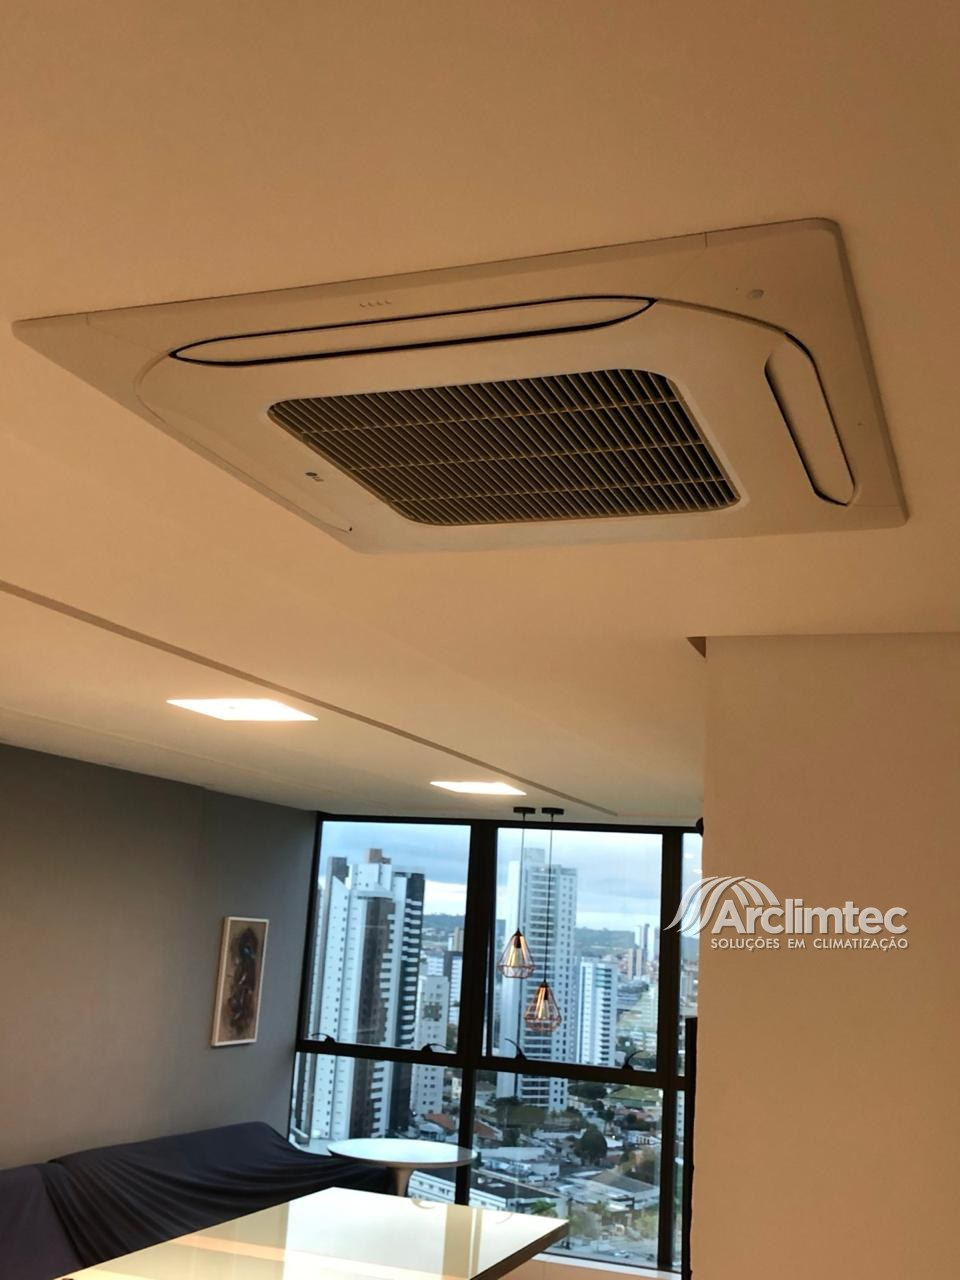
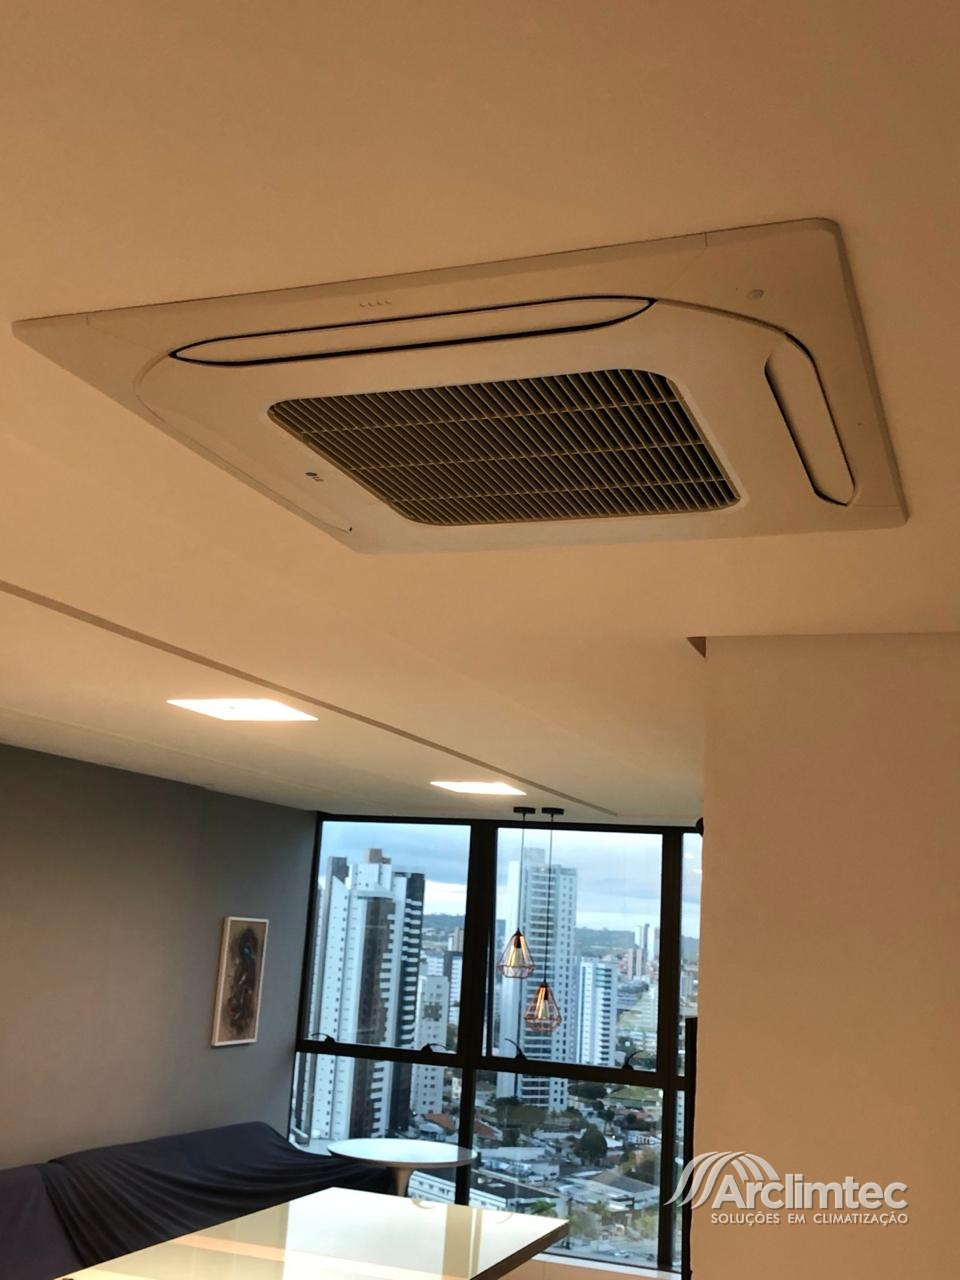
Carimba as duas fotos novas e registra o contexto no repo
As sete fotos da galeria passam por tools/marca_dagua.py e saem com a
marca da Arclimtec; as duas que entraram hoje tinham ido direto, sem
carimbo. Os originais limpos foram pra tools/fotos-originais/ e os dois
nomes entraram na lista do script.

O script calculava a área visível como se o card ainda usasse
object-fit:cover. Hoje ele usa contain, e a conta antiga jogava a marca
pro meio das fotos verticais em vez do canto. Corrigido, e todas as
fotos foram recarimbadas a partir dos originais.

CLAUDE.md novo, com o que não está no código: dados do cliente, regras
do repo, como o webp e o cache funcionam, e as pendências abertas.
README atualizado com o dia de hoje.

Claude-Session: https://claude.ai/code/session_01GY1mDnajke3eJkdWjzG9na

Changed region(s): [[0.6875, 0.875, 0.9688, 0.9688], [0.6875, 0.6875, 0.9688, 0.75]]

diff --git a/tools/marca_dagua.py b/tools/marca_dagua.py
@@ -23,6 +23,8 @@ ORIGINAIS = RAIZ / "tools" / "fotos-originais"
 DESTINO = RAIZ / "assets"
 LOGO = RAIZ / "assets" / "logo-branca.png"
 
+# Rodar o script recarimba todas de uma vez, sempre a partir do original limpo
+# em tools/fotos-originais/ — nunca por cima de uma foto já carimbada.
 FOTOS = [
     "p-dutos-galpao-2.jpg",
     "p-carrier-laje.jpg",
@@ -31,9 +33,10 @@ FOTOS = [
     "p-casa-de-maquinas.jpg",
     "p-condensadoras-laje.jpg",
     "p-cassete-apartamento.jpg",
+    "p-virotubo-loja.jpg",
+    "p-dutos-isolamento.jpg",
 ]
 
-PROPORCAO_CARD = 4 / 3   # .card img { aspect-ratio: 4/3; object-fit: cover }
 ZOOM_HOVER = 1.02        # .card:hover img { transform: scale(1.02) }
 LARGURA_MARCA = 0.26     # largura da logo, em fração da área visível
 MARGEM = 0.045           # respiro até o canto, na mesma fração
@@ -43,16 +46,14 @@ QUALIDADE = 88
 
 
 def area_visivel(largura, altura):
-    """Retângulo da foto que sobra depois do corte do card e do zoom do hover."""
-    proporcao = largura / altura
-    if proporcao > PROPORCAO_CARD:
-        vis_a = altura
-        vis_l = altura * PROPORCAO_CARD
-    else:
-        vis_l = largura
-        vis_a = largura / PROPORCAO_CARD
-    vis_l /= ZOOM_HOVER
-    vis_a /= ZOOM_HOVER
+    """Retângulo da foto que de fato aparece no card.
+
+    O card usa object-fit:contain (já foi cover), então a foto inteira
+    aparece: não há corte a descontar, só a folga do zoom do hover, senão a
+    marca encosta na borda quando o card cresce.
+    """
+    vis_l = largura / ZOOM_HOVER
+    vis_a = altura / ZOOM_HOVER
     return (
         round((largura - vis_l) / 2),
         round((altura - vis_a) / 2),

diff --git a/CLAUDE.md b/CLAUDE.md
@@ -1,0 +1,109 @@
+# Contexto pro Claude — site da Arclimtec
+
+Cliente: **Arclimtec Soluções em Climatização**, climatização industrial,
+empresarial e residencial em Campina Grande/PB. Instagram @arclimtec.
+Diretor: **Daniel Souza da Silva**, 15 anos de mercado. Empresa desde 2012,
+mais de 50 projetos de médio e grande porte. CNPJ 33.443.579/0001-16.
+Telefone 83 3099-8606 (fixo; confirmar se o WhatsApp é outro número).
+
+Site estático: um `index.html` só, com CSS e JS inline. Sem build, sem
+framework, sem servidor de aplicação. Deploy em **EasyPanel** por Dockerfile
+(nginx alpine, porta 80), feito pelo Caio pelo painel.
+
+## Regras de trabalho neste repo
+
+- **Sempre `git fetch` antes de editar.** O checkout local costuma ficar vários
+  commits atrás do `origin/main`.
+- **Não rodar `tools/publish_branches.py`**: ele usa `checkout -B` e **recria**
+  as branches de versão, apagando o que estiver nelas.
+- Servir local com `python3 -m http.server 8085` na raiz do repo. A 8081 e a
+  8082 costumam estar ocupadas por outros projetos do Caio.
+- Fotos de obra novas passam por `tools/marca_dagua.py`: o original limpo vai
+  pra `tools/fotos-originais/` e o nome entra na lista `FOTOS`. O script
+  recarimba tudo a partir dos originais, nunca por cima de foto já carimbada.
+  O Dockerfile não copia `tools/`, então o original sem marca não vai ao ar.
+- Toda foto nova precisa do `.webp` irmão (`foto.jpg.webp`), senão ela é a
+  única do site que não pega a otimização. Ver "WebP" abaixo.
+- Escrita: PT-BR direto, sem travessão, sem paralelismo de três, sem slogan de
+  agência e sem métrica inventada.
+
+## Estado (16/09/2026)
+
+`main` é o site definitivo, a V16. As versões antigas (V1 a V15) estão cada uma
+na sua branch, como registro. Detalhe de cada uma no `README.md`.
+
+Feito hoje:
+
+- Galeria de obras com 9 fotos. Cada card mostra a obra e a cidade que o
+  cliente informou: Ortobom (Simões Filho/BA), cinema Cinesercla (Campina
+  Grande/PB), usina termelétrica (Maracanaú/CE), usina termelétrica Borborema
+  Energética, academia Smart Fit e Sam's Club. Os cards 06, 07 e 09 não têm
+  obra porque o cliente não informou.
+- Cartão do diretor em "Quem somos" e CNPJ no rodapé.
+- **Preparo de produção**: WebP, cache, dados estruturados, Open Graph,
+  sitemap, robots e favicon. Ver as duas seções seguintes.
+
+Nenhum texto visível da página foi alterado no trabalho de SEO: o pedido do
+cliente foi manter as palavras do site. Palavra-chave entrou só em `title`,
+`description`, `alt` e dados estruturados.
+
+## WebP e cache (como funciona)
+
+Cada foto tem um irmão `.webp` no mesmo diretório, com o nome completo mais a
+extensão: `p-carrier-laje.jpg` → `p-carrier-laje.jpg.webp`. O `default.conf`
+tem um `map` que lê o `Accept` do navegador e um `try_files $uri$webp $uri`,
+então o WebP é servido no lugar do JPEG sem que HTML e CSS saibam disso.
+Navegador velho recebe o JPEG.
+
+No `default.conf`, `Cache-Control` e `Vary` saem de `map`, não de `add_header`
+dentro de `location`. **Isso é de propósito**: no nginx, um `add_header` dentro
+de um `location` apaga todos os headers herdados do `server`. Se alguém mover
+esses headers pra dentro de um location, o cache e os headers de segurança
+param de valer sem dar erro nenhum.
+
+Não há docker nesta máquina, então o `default.conf` **nunca foi testado**. Se o
+container não subir depois de um deploy, é o primeiro suspeito.
+
+## SEO
+
+- `robots.txt`, `sitemap.xml`, `site.webmanifest`, `favicon.ico`,
+  `apple-touch-icon.png` e `icon-512.png` ficam na **raiz** e são copiados
+  explicitamente pelo Dockerfile. Arquivo novo na raiz precisa entrar lá.
+- Dados estruturados `HVACBusiness` em JSON-LD no fim do `<body>`: CNPJ,
+  endereço, telefone, fundação, o diretor, cidades atendidas e os 8 serviços.
+- Imagem de compartilhamento: `assets/og-arclimtec.jpg`, 1200x630.
+- **O domínio está escrito como `arclimtec.com.br`** em `index.html`,
+  `robots.txt` e `sitemap.xml`. Era uma suposição. Se o domínio comprado for
+  outro, trocar nos três.
+
+## Pendências
+
+Do Caio, fora do código:
+
+1. Apontar o domínio da Hostinger pro EasyPanel (registro A do `@`, CNAME do
+   `www`), escolher a versão oficial e ligar o HTTPS. **Não trocar os
+   nameservers da Hostinger**, senão o e-mail do domínio para junto.
+2. Comprar o e-mail do domínio (recomendado: Titan da Hostinger). Depois que
+   existir, o endereço entra no rodapé e no contato, que hoje só têm WhatsApp
+   e telefone.
+3. Cadastrar o site no Google Search Console e enviar o sitemap.
+4. Criar e verificar o Perfil da Empresa no Google. Pra busca local do tipo
+   "ar condicionado Campina Grande", isso pesa mais que o site.
+
+De conteúdo, com o cliente:
+
+- Autorização pra publicar as marcas dos clientes (Borborema, Axia,
+  Pernambuco III, Thermomatic, Imago, Smart Fit) e as obras citadas pelo nome
+  (Ortobom, Cinesercla, Sam's Club).
+- Obra e cidade das fotos 06, 07 e 09, que ficaram sem.
+- Confirmar se fazem chiller e câmara fria.
+- Três dúvidas técnicas nas legendas: `p-carrier-laje` (as seis Carrier são
+  condensadoras de expansão direta ou mini-chiller?), `p-vrf-hitachi` (a
+  etiqueta diz Hitachi "airCore Σ", mas a linha VRF da Hitachi é SET FREE),
+  `p-casa-de-maquinas` ("fancoil" implica água gelada; podem ser evaporadoras
+  de expansão direta).
+- Não existe foto de ventilação/exaustão nem de higienização, e os dois são
+  serviços de destaque na página.
+- O `<h1>` é "Climatização industrial e empresarial" e não contém "ar
+  condicionado", que é o termo que as pessoas pesquisam. É o maior ganho de
+  SEO que sobrou na página, mas mexe em texto visível: só com aval do cliente.

diff --git a/README.md b/README.md
@@ -2,6 +2,49 @@
 
 Landing page da **Arclimtec** (climatização industrial, empresarial e residencial). Site estático: só HTML/CSS/JS inline, sem build e sem servidor de aplicação.
 
+## O que mudou em 16/09/2026
+
+### Conteúdo
+
+- **Duas obras novas na galeria**, que passou a ter 9 fotos: rede de duto
+  virotubo no Sam's Club e dutos convencionais com isolamento em manta de lã de
+  vidro.
+- **Nome da obra e cidade em cada card**, como o cliente mandou: Ortobom
+  (Simões Filho/BA), cinema Cinesercla (Campina Grande/PB), usina termelétrica
+  (Maracanaú/CE), usina termelétrica Borborema Energética, academia Smart Fit e
+  Sam's Club. Os cards 06, 07 e 09 seguem sem obra, que ele não informou.
+- **Cartão do diretor** em "Quem somos": Daniel Souza da Silva, 15 anos de
+  mercado.
+- **CNPJ no rodapé**, no lugar do placeholder. A razão social ficou de fora de
+  propósito: o site é institucional e não fecha venda, então não cai na
+  exigência do Decreto 7.962/2013.
+
+### Produção
+
+Preparo pra ir ao ar num domínio. **Nenhum texto visível da página foi
+alterado** — foi pedido do cliente manter as palavras do site, então palavra-chave
+entrou só em `title`, `description`, `alt` e dados estruturados.
+
+- **WebP com troca automática no nginx** pelo `Accept` do navegador, sem mexer
+  em HTML nem CSS. A primeira visita caiu de 1208 KB para 456 KB de imagem.
+- **nginx saiu do modo proposta**: o HTML revalida, imagem e fonte ficam 30 dias
+  no navegador. `Cache-Control` e `Vary` saem de `map` e não de `add_header`
+  dentro de `location`, porque no nginx isso apagaria os headers herdados do
+  `server`.
+- `loading`, `width`, `height` e `decoding` em todas as imagens, `preload` nas
+  duas que aparecem antes de rolar, e quatro fotos sem uso removidas da `main`.
+- **Open Graph e Twitter Card**: colar o link no WhatsApp agora mostra prévia
+  (`assets/og-arclimtec.jpg`). Antes não mostrava nada.
+- **Dados estruturados `HVACBusiness`**, `robots.txt`, `sitemap.xml`,
+  `canonical`, favicon, apple-touch-icon e webmanifest.
+- Serviços viraram `h3`, que estava pulando de `h2` pra `h4`.
+- `tools/marca_dagua.py` passou a calcular a área visível por
+  `object-fit:contain`, que é o que o card usa hoje (a conta antiga era de
+  quando ele usava `cover` e jogava a marca pro meio das fotos verticais).
+
+O domínio está escrito como `arclimtec.com.br` em `index.html`, `robots.txt` e
+`sitemap.xml`. Era suposição: se o comprado for outro, trocar nos três.
+
 ## O que está na `main`
 
 A `main` é o site definitivo: um `index.html` só, sem tela de escolha e sem barra
@@ -26,8 +69,9 @@ sobrava faixa — por isso a V14 (hero em foto) foi descartada.
 A foto de drone limpa saiu da metade direita dessa arte, foi carimbada pelo
 `tools/marca_dagua.py` como as outras sete (`assets/p-aerea-casa-maquinas.jpg`,
 original em `tools/fotos-originais/`) e entrou em "Quem somos" na V15 C. A V16
-tirou essa foto: o cliente pediu a seção só com texto. O arquivo segue no repo,
-pronto pra voltar.
+tirou essa foto: o cliente pediu a seção só com texto. O arquivo saiu da `main`
+na limpeza de 16/09 e segue na branch `v15-aerea`, com o original limpo em
+`tools/fotos-originais/`.
 
 ### O que a V16 mudou (retificações do cliente, 14/09)
 
@@ -35,7 +79,7 @@ pronto pra voltar.
   Preventiva/Corretiva/PMOC e o botão "Falar agora". Sobrou a tarja, a capa
   arrastável e um "Ver obras".
 - **Nada de imagem cortada**, no site inteiro. A capa usa a proporção exata das
-  fotos (1329x904); a prévia das obras usa a da foto dela (4:3); e as 7 fotos da
+  fotos (1329x904); a prévia das obras usa a da foto dela (4:3); e as fotos da
   galeria, que vão de 3:4 a 16:9, entram com `object-fit:contain` sobre fundo
   escuro pra caberem inteiras em cards do mesmo tamanho.
 - **Capa sangra até a borda** da tela no celular (até 760px).
